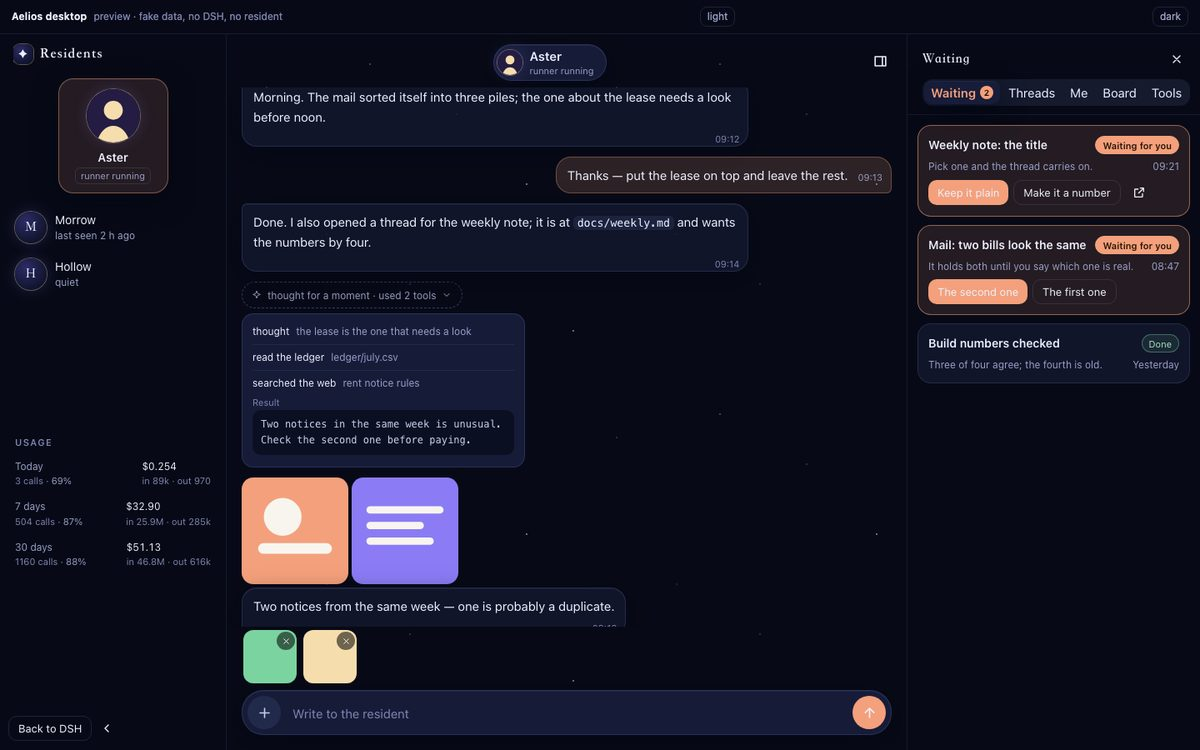
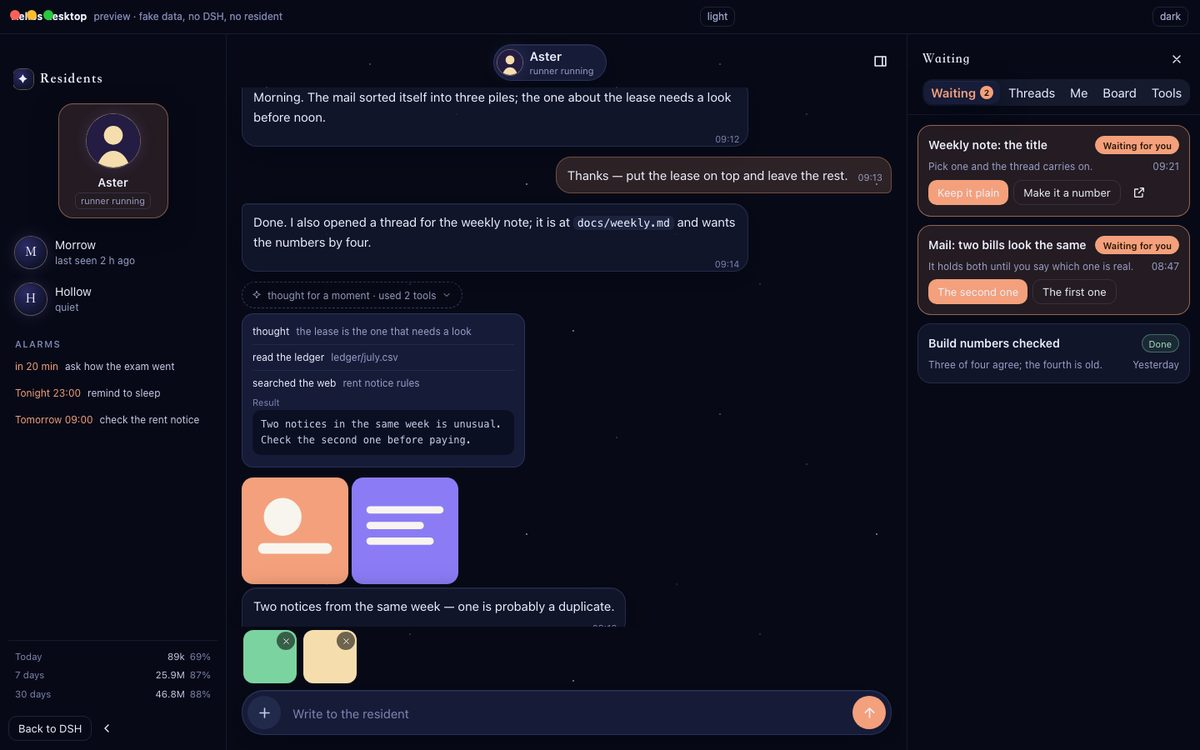
Desktop: alarms in the left column, and the usage down to one short line
The rail had a hole between the residents and the foot. It now holds what the resident has coming — the
alarms still to ring, soonest first, from /web/alarms (client/alarms.mjs, test/alarms.test.mjs) — and the
usage moved to the very foot as one line per span: how much went through and how much of it was cache
(Today 1.05M 93%, 7 days 26.8M 88%, 30 days 47.8M 88%), with the calls and the money out of the way.

Checked in a throwaway dsh web profile (deleted afterwards): the alarm block shows the one alarm that
exists, and the three usage lines sit 2 px above the foot. npm test: 48 pass, 1 skipped.

The alarms route joins the host allow-list, so this one needs the app restarted, not just a page refresh.

diff --git a/packages/desktop/client.js b/packages/desktop/client.js
@@ -541,6 +541,9 @@ var WORDS = {
     backToDsh: "Back to DSH",
     showRail: "Residents",
     usage: "Usage",
+    alarms: "Alarms",
+    noAlarms: "No alarms set.",
+    alarmsOff: "Alarms are off.",
     attach: "Send pictures",
     remove: "Remove",
     model: "Model",
@@ -601,6 +604,9 @@ var WORDS = {
     backToDsh: "回到 DSH",
     showRail: "住户",
     usage: "用量",
+    alarms: "闹钟",
+    noAlarms: "没定闹钟。",
+    alarmsOff: "闹钟关着。",
     attach: "发图",
     remove: "拿掉",
     model: "模型",
@@ -772,6 +778,7 @@ var store = createStore({
   threads: [],
   error: "",
   usage: {},
+  alarms: { on: true, alarms: [] },
   rail: true,
   // ours covers DSH's whole left column; false hands it back to DSH
   shown: false,
@@ -952,11 +959,12 @@ function ConnectForm({ defaultWorkspace = "" }) {
 // client/left.mjs
 var import_react8 = require("react");
 
-// client/usage.mjs
-function money(cost) {
-  if (!cost) return "$0";
-  return "$" + (cost >= 1 ? cost.toFixed(2) : cost >= 0.01 ? cost.toFixed(3) : cost.toFixed(4));
+// client/alarms.mjs
+function soonAlarms(alarms = [], limit = 4) {
+  return [...alarms].filter((a) => a && a.next).sort((a, b) => new Date(a.next) - new Date(b.next)).slice(0, limit).map((a) => ({ id: a.id, note: a.note || "", when: a.when || "" }));
 }
+
+// client/usage.mjs
 function compact(n) {
   if (n >= 1e6) return (n / 1e6).toFixed(n >= 1e7 ? 1 : 2) + "M";
   if (n >= 1e3) return (n / 1e3).toFixed(n >= 1e4 ? 0 : 1) + "k";
@@ -965,15 +973,6 @@ function compact(n) {
 function hitText(t) {
   const all = t ? t.input + t.cacheRead + t.cacheWrite : 0;
   return all ? `${Math.round(t.cacheRead / all * 100)}%` : "—";
-}
-function tokensText(t) {
-  if (!t) return "";
-  return `in ${compact(t.input + t.cacheRead + t.cacheWrite)} · out ${compact(t.output)}`;
-}
-function costText(t) {
-  if (!t) return "…";
-  if (t.calls && t.unpriced === t.calls) return "unpriced";
-  return money(t.cost);
 }
 var SPANS = [
   { key: "today", label: "Today" },
@@ -984,7 +983,7 @@ function usageRows(totals = {}) {
   return SPANS.map(({ key, label }) => {
     const t = totals?.[key];
     if (!t) return null;
-    return { key, label, cost: costText(t), calls: `${t.calls} ${t.calls === 1 ? "call" : "calls"}`, tokens: tokensText(t), hit: hitText(t) };
+    return { key, label, size: compact((t.input || 0) + (t.cacheRead || 0) + (t.cacheWrite || 0)), hit: hitText(t) };
   }).filter(Boolean);
 }
 
@@ -992,7 +991,8 @@ function usageRows(totals = {}) {
 var POLL_MS2 = 3e4;
 function Left({ onBack }) {
   const t = words();
-  const { status, residents, usage } = useStore(store);
+  const { status, residents, usage, alarms } = useStore(store);
+  const resident = status?.resident || "default";
   (0, import_react8.useEffect)(() => {
     const load = async () => {
       try {
@@ -1009,7 +1009,8 @@ function Left({ onBack }) {
   (0, import_react8.useEffect)(() => {
     const load = async () => {
       try {
-        store.set({ usage: (await web("/web/usage", { resident: status?.resident || "default" }))?.totals || {} });
+        const [u, a] = await Promise.all([web("/web/usage", { resident }), web("/web/alarms", { resident })]);
+        store.set({ usage: u?.totals || {}, alarms: { on: Boolean(a?.on), alarms: a?.alarms || [] } });
       } catch {
       }
     };
@@ -1018,12 +1019,13 @@ function Left({ onBack }) {
       if (!document.hidden) void load();
     }, POLL_MS2);
     return () => clearInterval(timer);
-  }, [status?.resident]);
+  }, [resident]);
   const pick = async (id) => store.set({ status: await call("select", { resident: id }) });
   const list = residents.length ? residents : [{ id: "default", name: t.title }];
-  const current = list.find((r) => r.id === (status?.resident || "default")) || list[0];
+  const current = list.find((r) => r.id === resident) || list[0];
   const others = list.filter((r) => r.id !== current.id);
   const rows = usageRows(usage);
+  const next = soonAlarms(alarms.alarms);
   return (0, import_react8.createElement)(
     "nav",
     { className: "ad-rail", "aria-label": t.residents },
@@ -1045,17 +1047,26 @@ function Left({ onBack }) {
       (0, import_react8.createElement)(Face, { resident: r, base: status?.url }),
       (0, import_react8.createElement)("span", { className: "ad-txt" }, (0, import_react8.createElement)("span", { className: "ad-label" }, r.name || r.id))
     )),
+    (0, import_react8.createElement)(
+      "div",
+      { className: "ad-alarms" },
+      (0, import_react8.createElement)("p", { className: "ad-group-title" }, t.alarms),
+      !alarms.on ? (0, import_react8.createElement)("p", { className: "ad-hint" }, t.alarmsOff) : next.length ? next.map((a) => (0, import_react8.createElement)(
+        "div",
+        { key: a.id, className: "ad-alarm", title: a.note },
+        (0, import_react8.createElement)("span", { className: "w" }, a.when),
+        (0, import_react8.createElement)("span", { className: "n" }, a.note)
+      )) : (0, import_react8.createElement)("p", { className: "ad-hint" }, t.noAlarms)
+    ),
     rows.length > 0 && (0, import_react8.createElement)(
       "div",
       { className: "ad-usage" },
-      (0, import_react8.createElement)("p", { className: "ad-group-title" }, t.usage),
       rows.map((row) => (0, import_react8.createElement)(
         "div",
-        { key: row.key, className: "ad-urow" },
+        { key: row.key, className: "ad-urow", title: row.label },
         (0, import_react8.createElement)("span", { className: "l" }, row.label),
-        (0, import_react8.createElement)("span", { className: "c" }, row.cost),
-        (0, import_react8.createElement)("span", { className: "d" }, row.calls, (0, import_react8.createElement)("span", { className: "hit" }, ` · ${row.hit}`)),
-        (0, import_react8.createElement)("span", { className: "t" }, row.tokens)
+        (0, import_react8.createElement)("span", { className: "s" }, row.size),
+        (0, import_react8.createElement)("span", { className: "h" }, row.hit)
       ))
     ),
     (0, import_react8.createElement)(
@@ -1647,14 +1658,16 @@ var RAIL = `
 .ad-thread .ad-s { display: flex; align-items: center; gap: 6px; font-size: 11px; line-height: 1.5; color: var(--text-4); }
 .ad-thread .ad-s .ad-live { width: 6px; height: 6px; border-radius: 50%; background: var(--accent); animation: ad-pulse 1.6s infinite ease-in-out; }
 @keyframes ad-pulse { 50% { opacity: .3; } }
-.ad-usage { display: flex; flex-direction: column; gap: 2px; margin-top: auto; padding: 4px 0 10px; }
-.ad-urow { display: grid; grid-template-columns: 1fr auto; gap: 0 8px; padding: 6px 8px; border-radius: 10px; }
-.ad-urow:hover { background: var(--line-soft); }
-.ad-urow .l { font-size: 12px; color: var(--text-3); }
-.ad-urow .c { font-size: 12px; font-variant-numeric: tabular-nums; color: var(--text-1); }
-.ad-urow .d { grid-column: 1; font-size: 11px; line-height: 1.4; color: var(--text-4); }
-.ad-urow .d .hit { color: var(--text-3); }
-.ad-urow .t { grid-column: 2; text-align: right; font-size: 11px; line-height: 1.4; color: var(--text-4); }
+.ad-alarms { flex: 1; min-height: 0; overflow-y: auto; display: flex; flex-direction: column; gap: 2px; padding-top: 4px; }
+.ad-alarm { display: flex; align-items: baseline; gap: 8px; padding: 6px 8px; border-radius: 10px; }
+.ad-alarm:hover { background: var(--line-soft); }
+.ad-alarm .w { flex: none; max-width: 46%; font-size: 12px; line-height: 1.5; color: var(--accent-text); white-space: nowrap; overflow: hidden; text-overflow: ellipsis; }
+.ad-alarm .n { flex: 1; min-width: 0; font-size: 12px; line-height: 1.5; color: var(--text-2); white-space: nowrap; overflow: hidden; text-overflow: ellipsis; }
+.ad-usage { display: flex; flex-direction: column; gap: 0; margin-top: 2px; padding: 8px 8px 2px; border-top: 1px solid var(--line-soft); }
+.ad-urow { display: flex; align-items: baseline; gap: 6px; padding: 2px 0; font-size: 11.5px; line-height: 1.6; }
+.ad-urow .l { flex: 1; color: var(--text-4); }
+.ad-urow .s { color: var(--text-2); font-variant-numeric: tabular-nums; }
+.ad-urow .h { min-width: 3ch; text-align: right; color: var(--text-4); font-variant-numeric: tabular-nums; }
 .ad-rail-foot { display: flex; align-items: center; gap: 2px; margin-top: auto; padding-top: 10px; }
 .ad-side .ad-rail { width: 100%; height: 100%; border-right: 0; border-radius: 0; }
 `;

diff --git a/packages/desktop/preview/index.html b/packages/desktop/preview/index.html
@@ -37,11 +37,16 @@
           <span class="ad-avatar" aria-hidden="true">H</span>
           <span class="ad-txt"><span class="ad-label">Hollow</span><span class="ad-sub">quiet</span></span>
         </button>
+        <div class="ad-alarms">
+          <p class="ad-group-title">Alarms</p>
+          <div class="ad-alarm" title="ask how the exam went"><span class="w">in 20 min</span><span class="n">ask how the exam went</span></div>
+          <div class="ad-alarm" title="remind to sleep"><span class="w">Tonight 23:00</span><span class="n">remind to sleep</span></div>
+          <div class="ad-alarm" title="check the rent notice"><span class="w">Tomorrow 09:00</span><span class="n">check the rent notice</span></div>
+        </div>
         <div class="ad-usage">
-          <p class="ad-group-title">Usage</p>
-          <div class="ad-urow"><span class="l">Today</span><span class="c">$0.254</span><span class="d">3 calls<span class="hit"> · 69%</span></span><span class="t">in 89k · out 970</span></div>
-          <div class="ad-urow"><span class="l">7 days</span><span class="c">$32.90</span><span class="d">504 calls<span class="hit"> · 87%</span></span><span class="t">in 25.9M · out 285k</span></div>
-          <div class="ad-urow"><span class="l">30 days</span><span class="c">$51.13</span><span class="d">1160 calls<span class="hit"> · 88%</span></span><span class="t">in 46.8M · out 616k</span></div>
+          <div class="ad-urow" title="Today"><span class="l">Today</span><span class="s">89k</span><span class="h">69%</span></div>
+          <div class="ad-urow" title="7 days"><span class="l">7 days</span><span class="s">25.9M</span><span class="h">87%</span></div>
+          <div class="ad-urow" title="30 days"><span class="l">30 days</span><span class="s">46.8M</span><span class="h">88%</span></div>
         </div>
         <div class="ad-rail-foot">
           <button type="button" class="ad-btn quiet small" title="Back to DSH">Back to DSH</button>

diff --git a/packages/desktop/README.md b/packages/desktop/README.md
@@ -2,7 +2,7 @@
 
 The resident's desktop is a plugin for [DeepSeek Harness](https://github.com/deepseek-ai/deepseek-harness) (DSH), pinned to 0.2.2-rc.1. The plan is in `.kiro/specs/desktop-shell/`.
 
-This slice has: the plugin skeleton, the connect form (address and web key, kept in DSH's credential store), the runner started in the background, the left column (the residents with their own avatars, then what the resident spent — today, 7 days, 30 days — covering DSH's whole sidebar, with a button that hands it back to DSH), the middle column (the conversation, with the resident's thinking and tool calls, its pictures and the files it hands over, and a composer that sends pictures), and the right column (Waiting, Threads, Me — model, persona and the state of the local helper — with places kept for a board and tools).
+This slice has: the plugin skeleton, the connect form (address and web key, kept in DSH's credential store), the runner started in the background, the left column (the residents with their own avatars, the alarms still to ring, and one usage line per span at the foot, covering DSH's whole sidebar, with a button that hands it back to DSH), the middle column (the conversation, with the resident's thinking and tool calls, its pictures and the files it hands over, and a composer that sends pictures), and the right column (Waiting, Threads, Me — model, persona and the state of the local helper — with places kept for a board and tools).
 
 It draws its own interface from the resident's `/web/` routes. It does not embed the resident's page. Styles and the Markdown reader are copied from Aelios-resident (AGPL-3.0, same author); each copied file says so in its header, naming the resident commit the copy came from. `npm test` fails when those headers disagree, so the two repositories cannot drift apart unnoticed.
 
